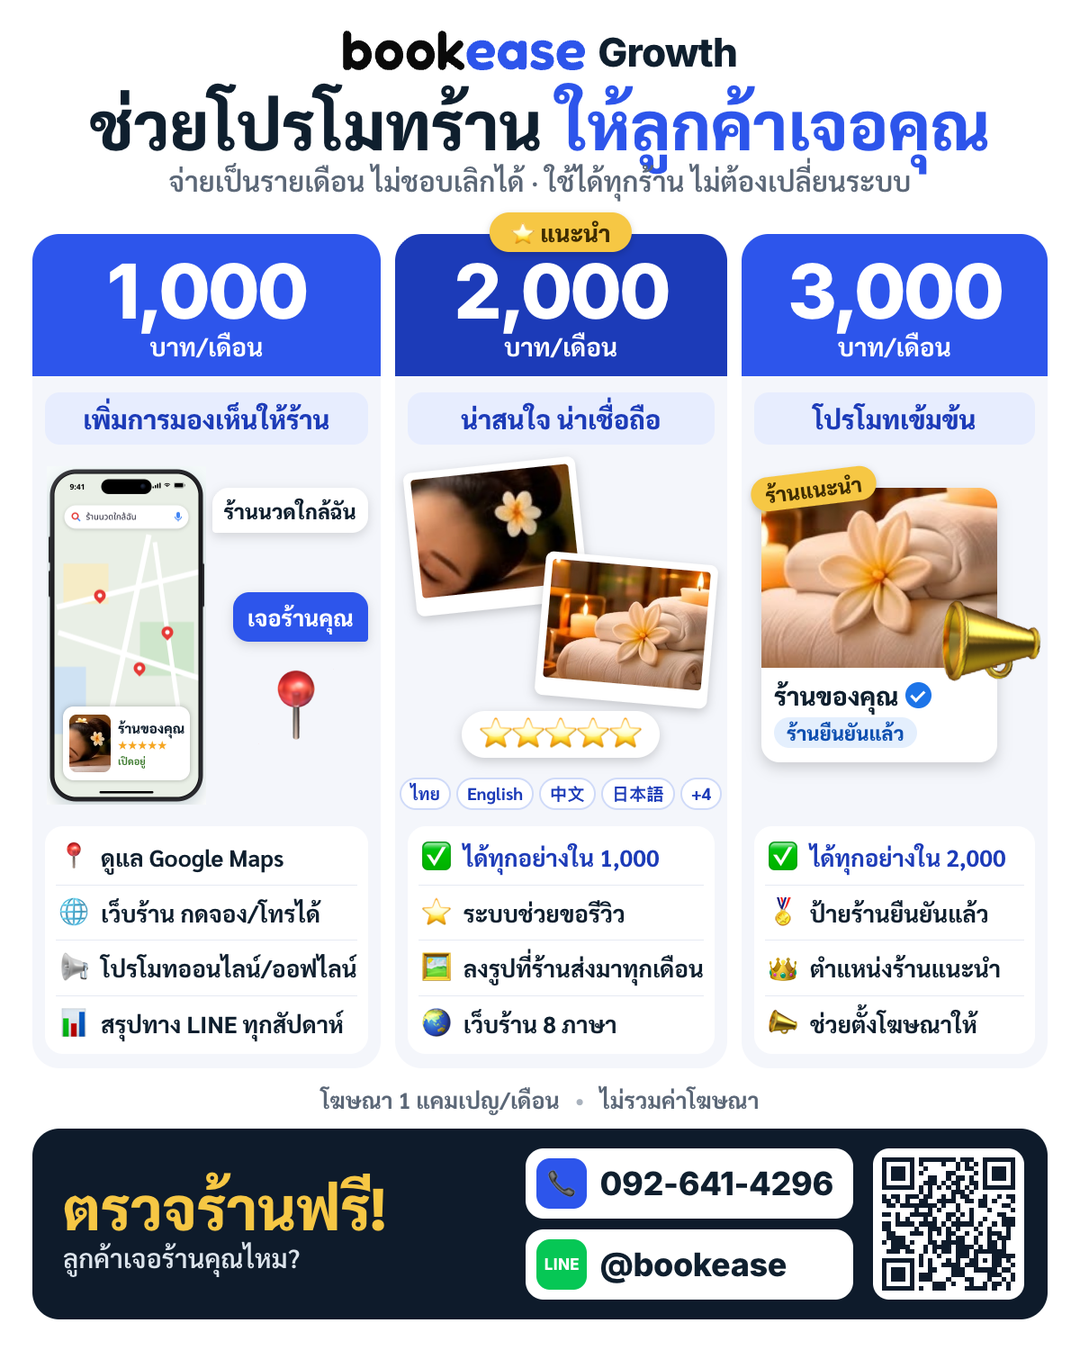
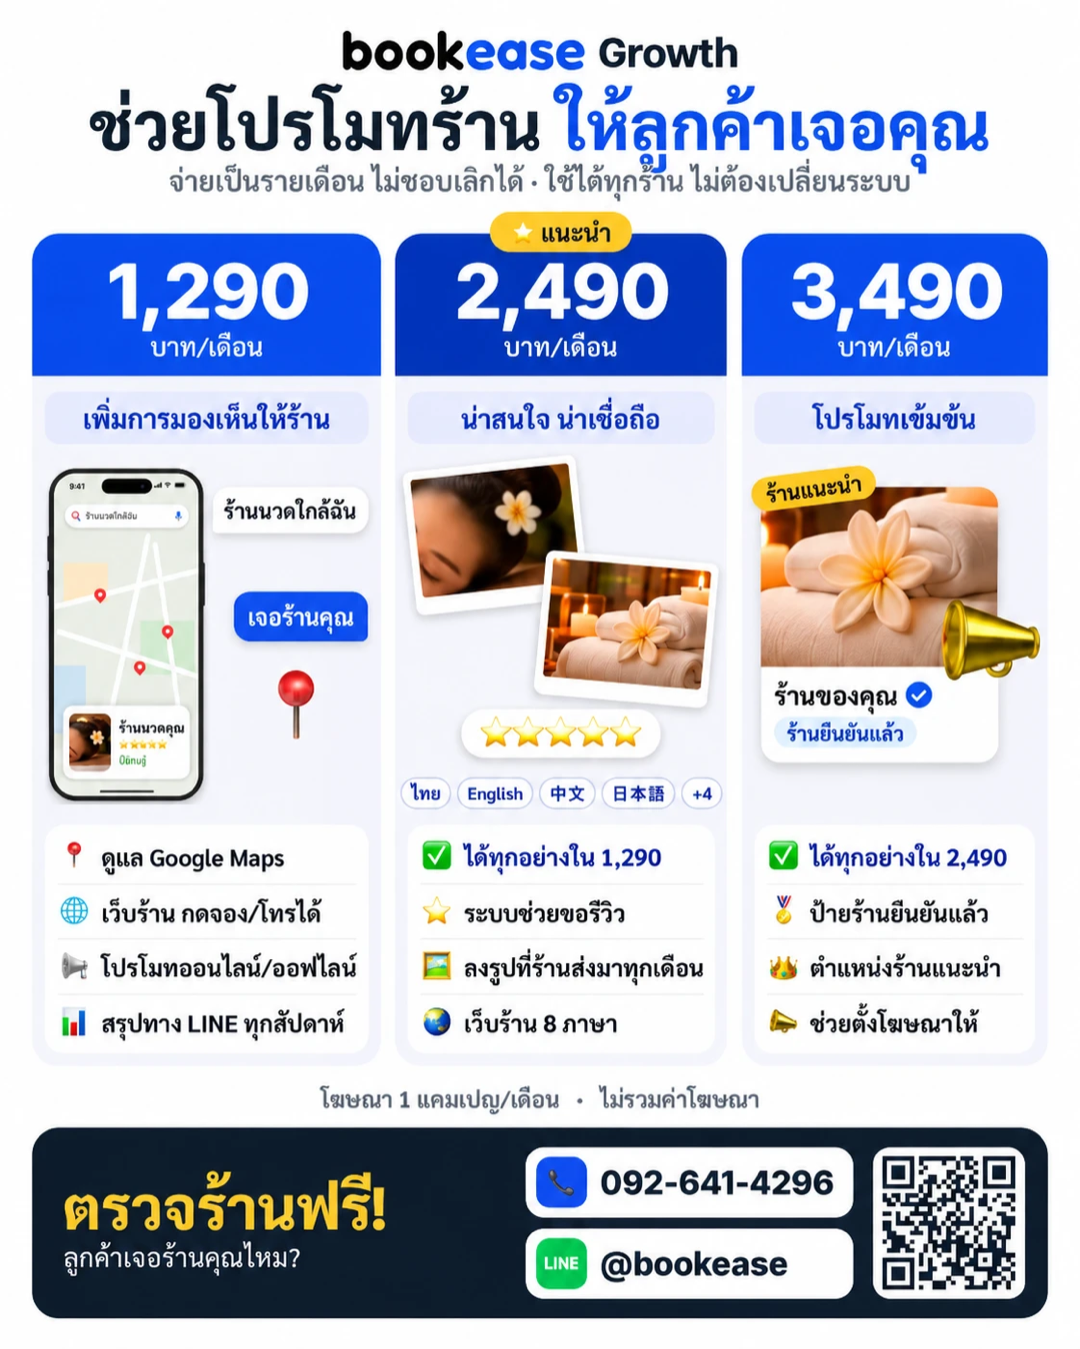
pricing: monthly packages 1,290 / 2,490 / 3,490 everywhere on the Radar pages (Art 2026-11-19)
- offer card: tiers 1,290 / 2,490 / 3,490 (was 1,000 / 2,000 / 3,000), "ได้ทุกอย่างใน 1,290 / 2,490",
  recommendation 1,290 (not found yet) or 2,490 (already found), LINE order text carries the new price
- offer card "ดูแพ็กเกจอื่น" picture replaced with the new brochure Art sent (1,290 / 2,490 / 3,490)
- report config line ฿1,000 → ฿1,290 (radar/ and radar/next/)
Kit page and A5 sheet were already ฿1,290 (564e9f3). Payment code (growth-pay.js, bookease-backend PR #67) not touched.

diff --git a/radar/offer/index.html b/radar/offer/index.html
@@ -79,20 +79,20 @@ function thWhen(iso) {
 }
 
 const TIERS = {
-  1000: { name: 'ให้ลูกค้าแถวร้านเจอคุณก่อน', items: [['📍', 'ลูกค้าเจอร้านบน Google ง่ายขึ้น'], ['📱', 'มีเว็บร้าน กดโทร/จองได้ทันที'], ['📊', 'เราโปรโมทให้ สรุปผลทุกสัปดาห์']] },
-  2000: { name: 'ให้ลูกค้าเลือกร้านคุณ', items: [['✅', 'ได้ทุกอย่างใน 1,000'], ['⭐', 'รีวิวและรูปเพิ่ม ร้านน่าเลือกขึ้น'], ['🌏', 'ลูกค้าต่างชาติอ่านหน้าร้านได้']] },
-  3000: { name: 'ให้ร้านเด่นกว่าร้านอื่น', items: [['✅', 'ได้ทุกอย่างใน 2,000'], ['🏅', 'ป้ายร้านยืนยันแล้ว + ร้านแนะนำ'], ['📣', 'เราตั้งโฆษณาให้ 1 แคมเปญ/เดือน']] },
+  1290: { name: 'ให้ลูกค้าแถวร้านเจอคุณก่อน', items: [['📍', 'ลูกค้าเจอร้านบน Google ง่ายขึ้น'], ['📱', 'มีเว็บร้าน กดโทร/จองได้ทันที'], ['📊', 'เราโปรโมทให้ สรุปผลทุกสัปดาห์']] },
+  2490: { name: 'ให้ลูกค้าเลือกร้านคุณ', items: [['✅', 'ได้ทุกอย่างใน 1,290'], ['⭐', 'รีวิวและรูปเพิ่ม ร้านน่าเลือกขึ้น'], ['🌏', 'ลูกค้าต่างชาติอ่านหน้าร้านได้']] },
+  3490: { name: 'ให้ร้านเด่นกว่าร้านอื่น', items: [['✅', 'ได้ทุกอย่างใน 2,490'], ['🏅', 'ป้ายร้านยืนยันแล้ว + ร้านแนะนำ'], ['📣', 'เราตั้งโฆษณาให้ 1 แคมเปญ/เดือน']] },
 };
 
 // Recommend by the shop's real problem:
-// customers don't find the shop yet (rank from the area hub worse than 3, or top-3 in under 2/3 of the points) → 1,000 (be found first);
-// customers already find it → 2,000 (be chosen: reviews, photos, other languages).
+// customers don't find the shop yet (rank from the area hub worse than 3, or top-3 in under 2/3 of the points) → 1,290 (be found first);
+// customers already find it → 2,490 (be chosen: reviews, photos, other languages).
 function recommend(top3, total, hubRank, hub) {
   const found = hubRank && hubRank <= 3 && top3 >= Math.ceil(total * 2 / 3);
   if (!found) {
-    return { price: 1000, why: hubRank ? `คนที่ค้นจาก ${hub} ยังเห็นร้านคุณอันดับ ${hubRank} → ทำให้ลูกค้าเจอร้านก่อน` : `คนที่ค้นจาก ${hub} ยังไม่เห็นร้านคุณ → ทำให้ลูกค้าเจอร้านก่อน` };
+    return { price: 1290, why: hubRank ? `คนที่ค้นจาก ${hub} ยังเห็นร้านคุณอันดับ ${hubRank} → ทำให้ลูกค้าเจอร้านก่อน` : `คนที่ค้นจาก ${hub} ยังไม่เห็นร้านคุณ → ทำให้ลูกค้าเจอร้านก่อน` };
   }
-  return { price: 2000, why: 'ลูกค้าเจอร้านคุณแล้ว → ทำให้ลูกค้าเลือกร้านคุณ' };
+  return { price: 2490, why: 'ลูกค้าเจอร้านคุณแล้ว → ทำให้ลูกค้าเลือกร้านคุณ' };
 }
 
 async function load() {
@@ -151,7 +151,7 @@ function render(r) {
       <p class="sub">ไม่ผูกมัด ยกเลิกได้ทุกเดือน · ใช้ได้ทุกร้าน</p>
     </div>
     <div class="links"><button id="more">ดูแพ็กเกจอื่น</button><a href="${report}">ดูผลตรวจเต็ม</a></div>
-    <div id="all" hidden><img src="packages.png" alt="แพ็กเกจ 1,000 / 2,000 / 3,000 บาทต่อเดือน"></div>
+    <div id="all" hidden><img src="packages.png" alt="แพ็กเกจ 1,290 / 2,490 / 3,490 บาทต่อเดือน"></div>
     <p class="foot">LINE ${LINE_OA} · ${PHONE}</p>
     ${STAFF ? `<div class="staff"><b>สำหรับทีม</b> · ส่งลิงก์นี้ให้ร้านทาง LINE (ร้านกด "เริ่มเลย" แล้วข้อความเข้า ${LINE_OA} พร้อมชื่อร้านและแพ็กเกจ)
       <input id="link" readonly value="${esc(self)}"><button id="copy">คัดลอกลิงก์</button> <span id="ok" hidden>คัดลอกแล้ว</span></div>` : ''}`;

diff --git a/radar/index.html b/radar/index.html
@@ -264,7 +264,7 @@ const CONFIG = {
   api: 'https://bookease-maps-report.atiz-cloudflare-account.workers.dev',
   // Browser key for Maps JavaScript API, restricted to this site. Empty = locked map picture instead of a zoomable map.
   mapsJsKey: '',
-  offer: 'เราดูแลให้ทุกเดือน: เว็บร้าน + ปุ่มจองบน Google Maps · ฿1,000/เดือน',
+  offer: 'เราดูแลให้ทุกเดือน: เว็บร้าน + ปุ่มจองบน Google Maps · ฿1,290/เดือน',
 };
 
 /* ── tiny helpers ───────────────────────────────────────────────── */

diff --git a/radar/next/index.html b/radar/next/index.html
@@ -268,7 +268,7 @@ const CONFIG = {
   api: 'https://bookease-maps-report.atiz-cloudflare-account.workers.dev',
   // Browser key for Maps JavaScript API, restricted to this site. Empty = locked map picture instead of a zoomable map.
   mapsJsKey: '',
-  offer: 'เราดูแลให้ทุกเดือน: เว็บร้าน + ปุ่มจองบน Google Maps · ฿1,000/เดือน',
+  offer: 'เราดูแลให้ทุกเดือน: เว็บร้าน + ปุ่มจองบน Google Maps · ฿1,290/เดือน',
 };
 
 /* ── tiny helpers ───────────────────────────────────────────────── */
